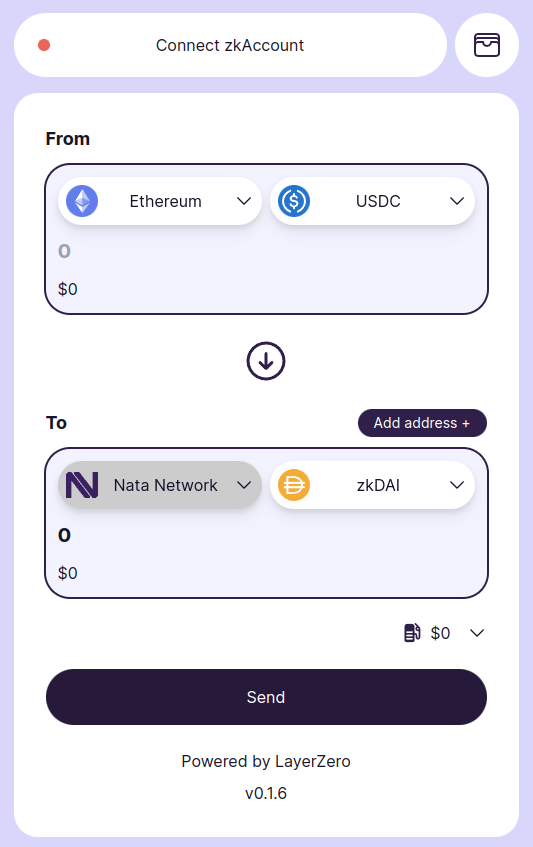
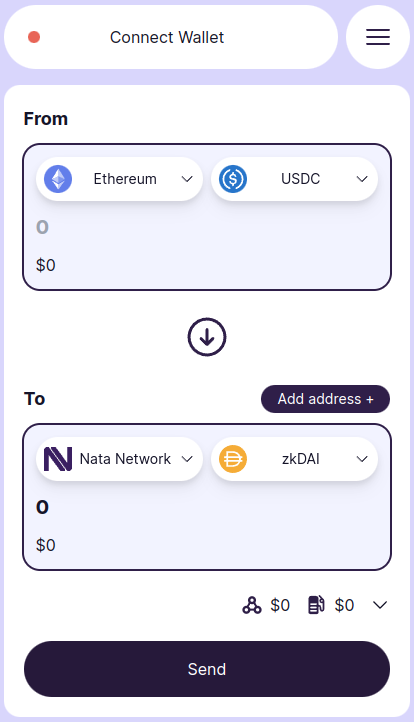
Add contracts

diff --git a/sidebars.js b/sidebars.js
@@ -37,6 +37,7 @@ const sidebars = {
         "how-natanetwork-works/earn",
         "how-natanetwork-works/Tokenomics",
         "how-natanetwork-works/roadmap",
+        "how-natanetwork-works/contracts",
         "how-natanetwork-works/faq",
       ],
     },

diff --git a/docs/how-natanetwork-works/earn.md b/docs/how-natanetwork-works/earn.md
@@ -1,37 +1,15 @@
 # Earn/Loyalty Program
 
 ## Overview
-NATA tokens are rewarded to users that perform a deposit in the ZK-rollup block.
+NATA tokens are rewarded to users that perform a cross-chain deposits using the Nata Router.
 
-Tokens are allocated portionally across the three asset pools (MATIC/WETH/DAI).
+Tokens are allocated to the chains voted on by the community.
 
-For each asset, tokens are rewarded to users with the largest deposit.
-
-Each block will have rewards until the 35% allocation is gone or the DAO votes to stop the program.
-
-## Maximize NATA Rewards
-A user can earn the max per block by depositing the protocol limit for each of the three available assets (MATIC/WETH/DAI). 
+Users with larger and more frequent deposits, earn more of the tokens allocated during the epoch.
 
 ## Epoch and Claiming Token Rewards
-Once the current epoch has completed, users can claim the NATA tokens for the previous epoch. Epochs are 7 days long. 
+Once the current epoch has completed, users can claim the eNATA tokens for the previous epoch. Epochs are 7 days long. 
 
 ## Allocating Token Rewards 
-To ensure the three depositable asset pools are growing at the same rate, token reward allocations can be adjusted before the start of the next epoch. The governing DAO could be responsible for this.
+The governing DAO is responsible for adjusting emissions across the various chains to ensure steady protocol growth. 
 
-# Retro Airdrop
-
-## Who was eligible for the retro airdrop?
-Users that used other privacy dapps were eligible to claim NATA tokens.
-
-### Privacy Dapp eligible Users
-## Airdrop #1
-- Aztec V2 (0.01+ ETH deposit) - 181486
-- TornadoCash - 99128
-- Aztec V1 - 41621
-- zkBOB - 5562 
-- Railgun - 3297
-## Airdrop #2
-- Aztec V2 (0.001-0.01 ETH deposit) - 92785
-
-## Bonus Multipler 
-Must have used Aztec V1/V2 and any of the other privacy apps listed above. These users were allocated a bonus multipler. (2680 users)

diff --git a/docs/how-natanetwork-works/Tokenomics.md b/docs/how-natanetwork-works/Tokenomics.md
@@ -12,17 +12,17 @@
 Users that used other privacy dapps were eligible to claim NATA tokens. Users have 1 year to claim tokens.
 
 ### Privacy Dapp eligible Users
-## Airdrop #1
-- Aztec V2 (0.01+ ETH deposit) - 181486
-- TornadoCash - 99128
-- Aztec V1 - 41621
-- zkBOB - 5562 
-- Railgun - 3297
-## Airdrop #2
-- Aztec V2 (0.001-0.01 ETH deposit) - 92785
+## Airdrop #1 - [Check Eligibility](https://gist.githubusercontent.com/shichiro-nakahara/21329bcb654c385e7f09937333fbce6e/raw/bde5efc9ef3dcffc2515ce09d4018bf23fa01716/3cf79a34-ef76-4303-8362-f26924eec32e.json)
+- Aztec V2 (0.01+ ETH deposit) - 181486 addresses
+- TornadoCash - 99128 addresses
+- Aztec V1 - 41621 addresses
+- zkBOB - 5562 addresses
+- Railgun - 3297 addresses
+## Airdrop #2 - [Check Eligibility](https://gist.githubusercontent.com/shichiro-nakahara/dba7b3fdb96dafaea0e4a15cd5777e94/raw/f4545437001b96ea6556a073b64427674bf201b6/Airdrop%25202%2520Allocations)
+- Aztec V2 (0.001-0.01 ETH deposit) - 92785 addresses
 
 ## Bonus Multipler 
-Must have used Aztec V1/V2 and any of the other privacy apps listed above. These users were allocated a bonus multipler. (2680 users) 
+Must have used Aztec V1/V2 and any of the other privacy apps listed above. These users were allocated a bonus multipler. (2680 addresses) 
 
 ## eNATA -> NATA Migration
 The protocol will distribute eNATA tokens which are non-transferable. Check refer to the roadmap when the migration contract will be deployed.

diff --git a/docs/router/userguide/introduction.md b/docs/router/userguide/introduction.md
@@ -9,3 +9,11 @@ Here you can find all information about Nata Router and how to use it safely. We
 Nata Router is a cross-chain privacy bridge powered by Stargate, LayerZero, and Nata Network.
 
 Users can privately bridge tokens cross-chain and protect their transaction data from the public. Shielding a token means having it under a zkSNARK (zero-knowledge proof cryptography) shield that protects the user’s privacy. The docs refer to 'Shielding' and 'Depositing' interchangeably.
+
+## Benefits 
+
+Nata users don't have to worry about having their address tainted by using a privacy app because the funds are proxied through LayerZero/Stargate smart contracts. This allows users to withdraw funds from Nata Network directly to their CEX address. 
+
+Nata users on any chain are able to receive very strong privacy because all users, across all chains, share the same global privacy set. Other privacy protocols have separate contract deployments for each chain, resulting in a weaker privacy set for their users.
+
+As LayerZero/Stargate supports new chains, Nata Network can quickly and easily integrate them into the Router, instantly bootstrapping a large existing privacy set for the new chain. 

diff --git a/docs/how-natanetwork-works/contracts.md b/docs/how-natanetwork-works/contracts.md
@@ -1,0 +1,11 @@
+# Smart Contracts
+
+Confirm you are interacting with the correct smart contracts before signing transactions.
+
+| Name | Contract Address |
+| :---  | :----:   |
+| rollupProcessor | [0x03ebC6d159C41419747354bc819dF274Da9948B5](https://polygonscan.com/address/0x03ebc6d159c41419747354bc819df274da9948b5#code) |
+| rollupProviders | [0xC0e92525834c989Fb1Fe1e02463c0419A5C992A9](https://polygonscan.com/address/0xc0e92525834c989fb1fe1e02463c0419a5c992a9) |
+| eNATA Token | [0x736295c8De89B8DA2683A523Be239Ae9D5937D87](https://polygonscan.com/token/0x736295c8de89b8da2683a523be239ae9d5937d87#code) |
+| NataGateway | [0x5F091Af1aBdF685eF91722f8912DF2423FFCBC1E](https://polygonscan.com/address/0x5F091Af1aBdF685eF91722f8912DF2423FFCBC1E#code) |
+| \[ 2/4 Safe Multi-sig\] | [0x0A7b3E088D8d647c4caD8dFAf81F71bF8250e030](https://app.safe.global/home?safe=matic:0x0A7b3E088D8d647c4caD8dFAf81F71bF8250e030) |

diff --git a/docs/router/userguide/deposit.md b/docs/router/userguide/deposit.md
@@ -1,12 +1,12 @@
 # Deposit Funds
 
-## Step 1: Connect zkAccount
-When you land on the router app, click on “Connect zkAccount” to be taken to the wallet connection screen.
+## Step 1: Connect Wallet
+When you land on the router app, click on “Connect Wallet” to be taken to the wallet connection screen.
 
 ![image](/img/router-step-1-connect.png)
 
-## Step 2: Sign message to retrieve zkAddress
-You will be prompted to sign a message to retrieve your Nata Network zkAccount address.
+## Step 2: Sign message to decrypt Nata Wallet
+You will be prompted to sign a message to decrypt your Nata Network Wallet.
 
 ![image](/img/router-step-2-sign.png)
 
